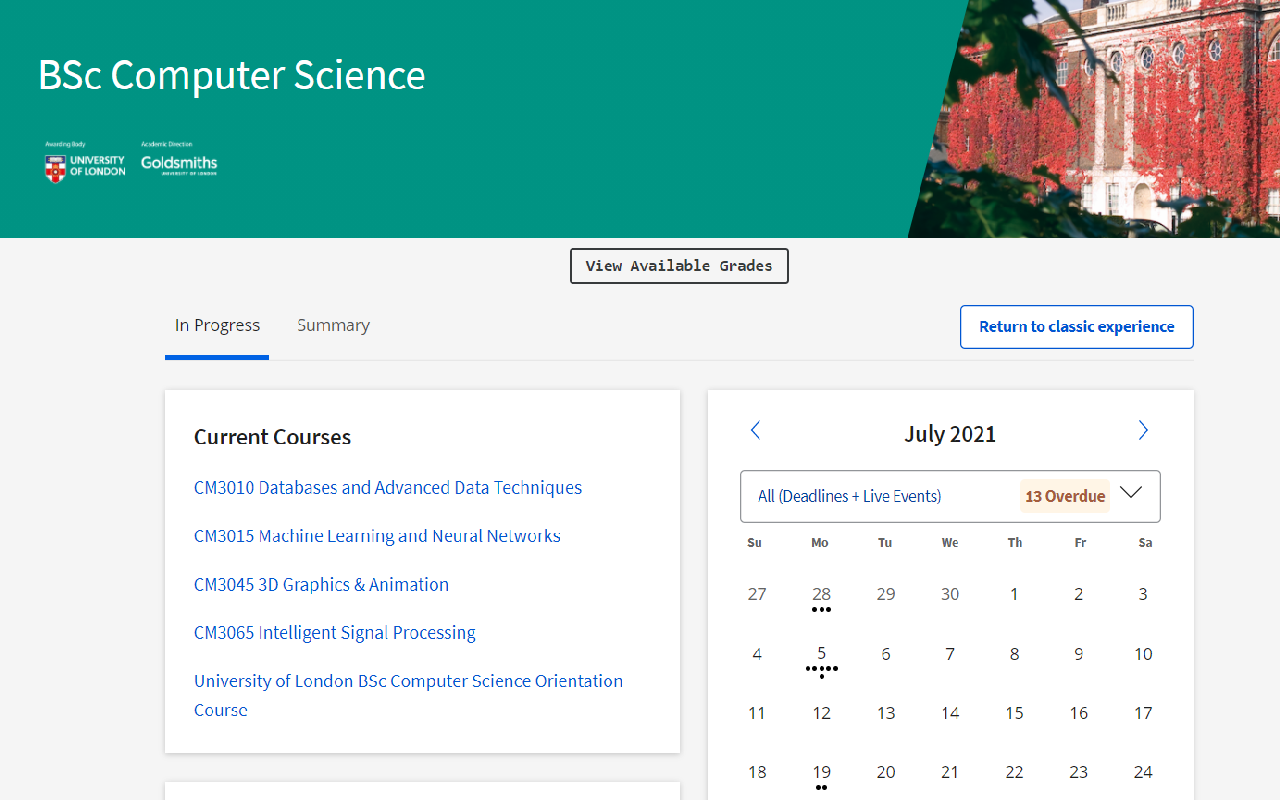
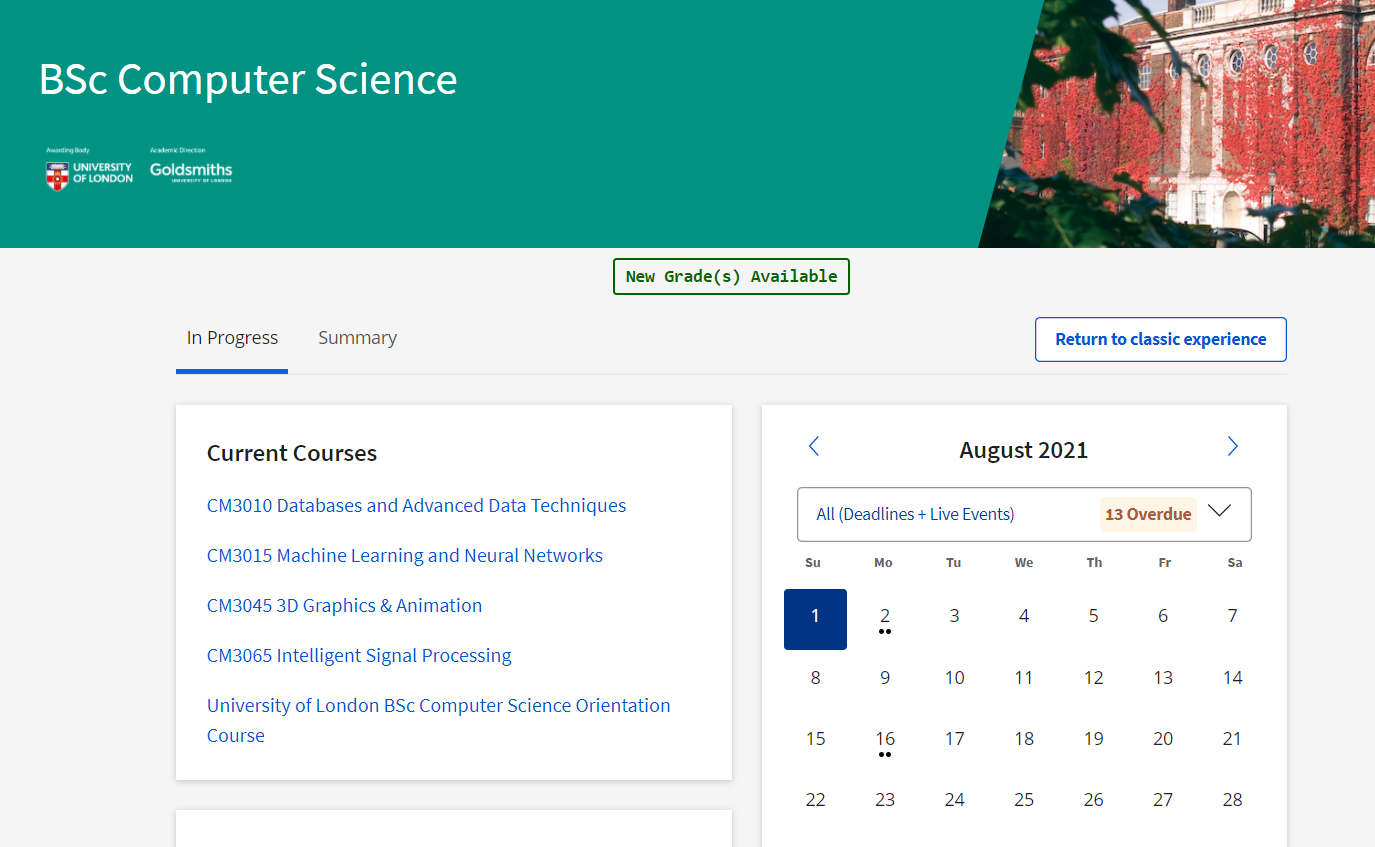
Notify user when new grades are available

diff --git a/inject.js b/inject.js
@@ -1,8 +1,14 @@
 const topElem = document.querySelector('.degree-header-cms-sticky-wrapper');
 const wrapper = document.createElement('div');
 wrapper.style.padding = '8px 0';
-wrapper.style.position = 'relative';
 topElem.insertAdjacentElement('afterend', wrapper);
+
+let hasNewGrades = false;
+const intGrades = localStorage.getItem('intGrades');
+if (!intGrades || intGrades < grades.length) {
+    hasNewGrades = true;
+    localStorage.setItem('intGrades', grades.length);
+}
 
 const gradesHtml = (() => {
     html = '';
@@ -38,6 +44,10 @@ else {
     outerModal.style.top = 0;
     outerModal.style.left = 0;
     outerModal.addEventListener('click', () => {
+        if (hasNewGrades) {
+            button.innerText = 'View Available Grades';
+            button.style.color = '#000';
+        }
         innerModal.style.display = 'none';
         outerModal.style.display = 'none';
     });
@@ -56,7 +66,13 @@ else {
 
     // button
     const button = document.createElement('div');
-    button.innerText = 'View Available Grades';
+    if (hasNewGrades) {
+        button.innerText = 'New Grade(s) Available';
+        button.style.color = 'darkgreen';
+    }
+    else {
+        button.innerText = 'View Available Grades';
+    }
     button.style.width = '190px';
     button.style.height = '30px';
     button.style.border = '2px solid';
